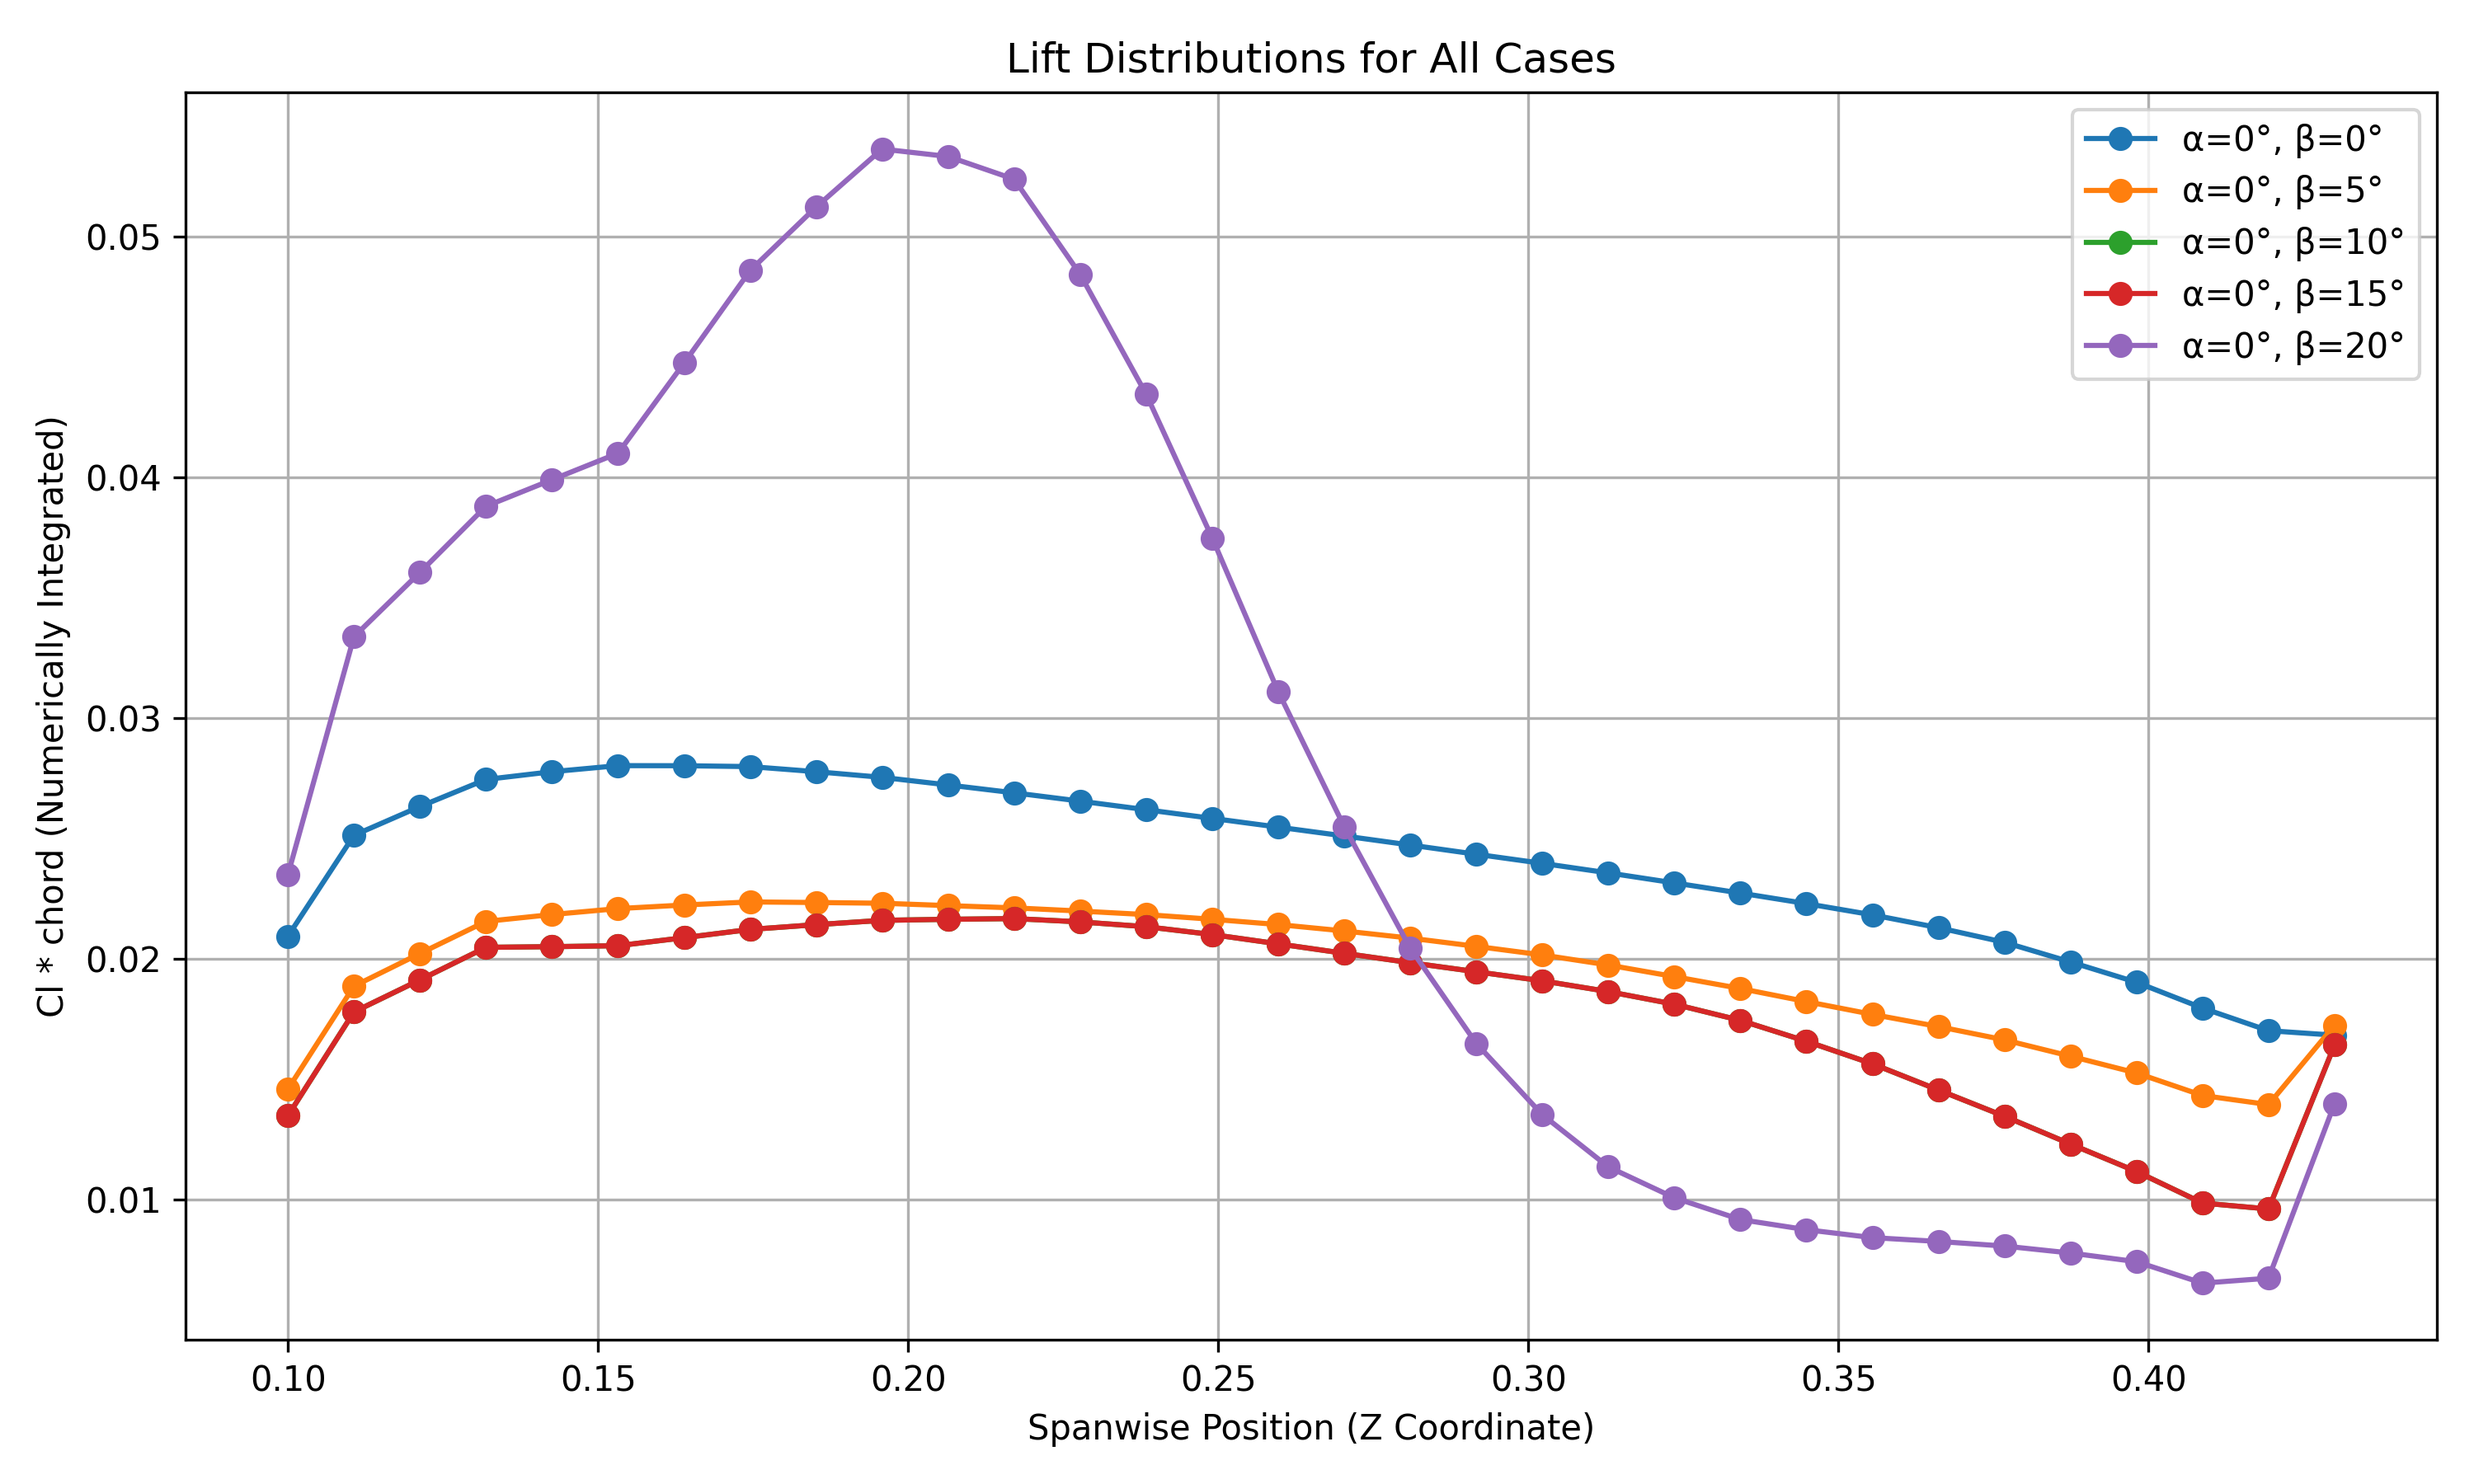
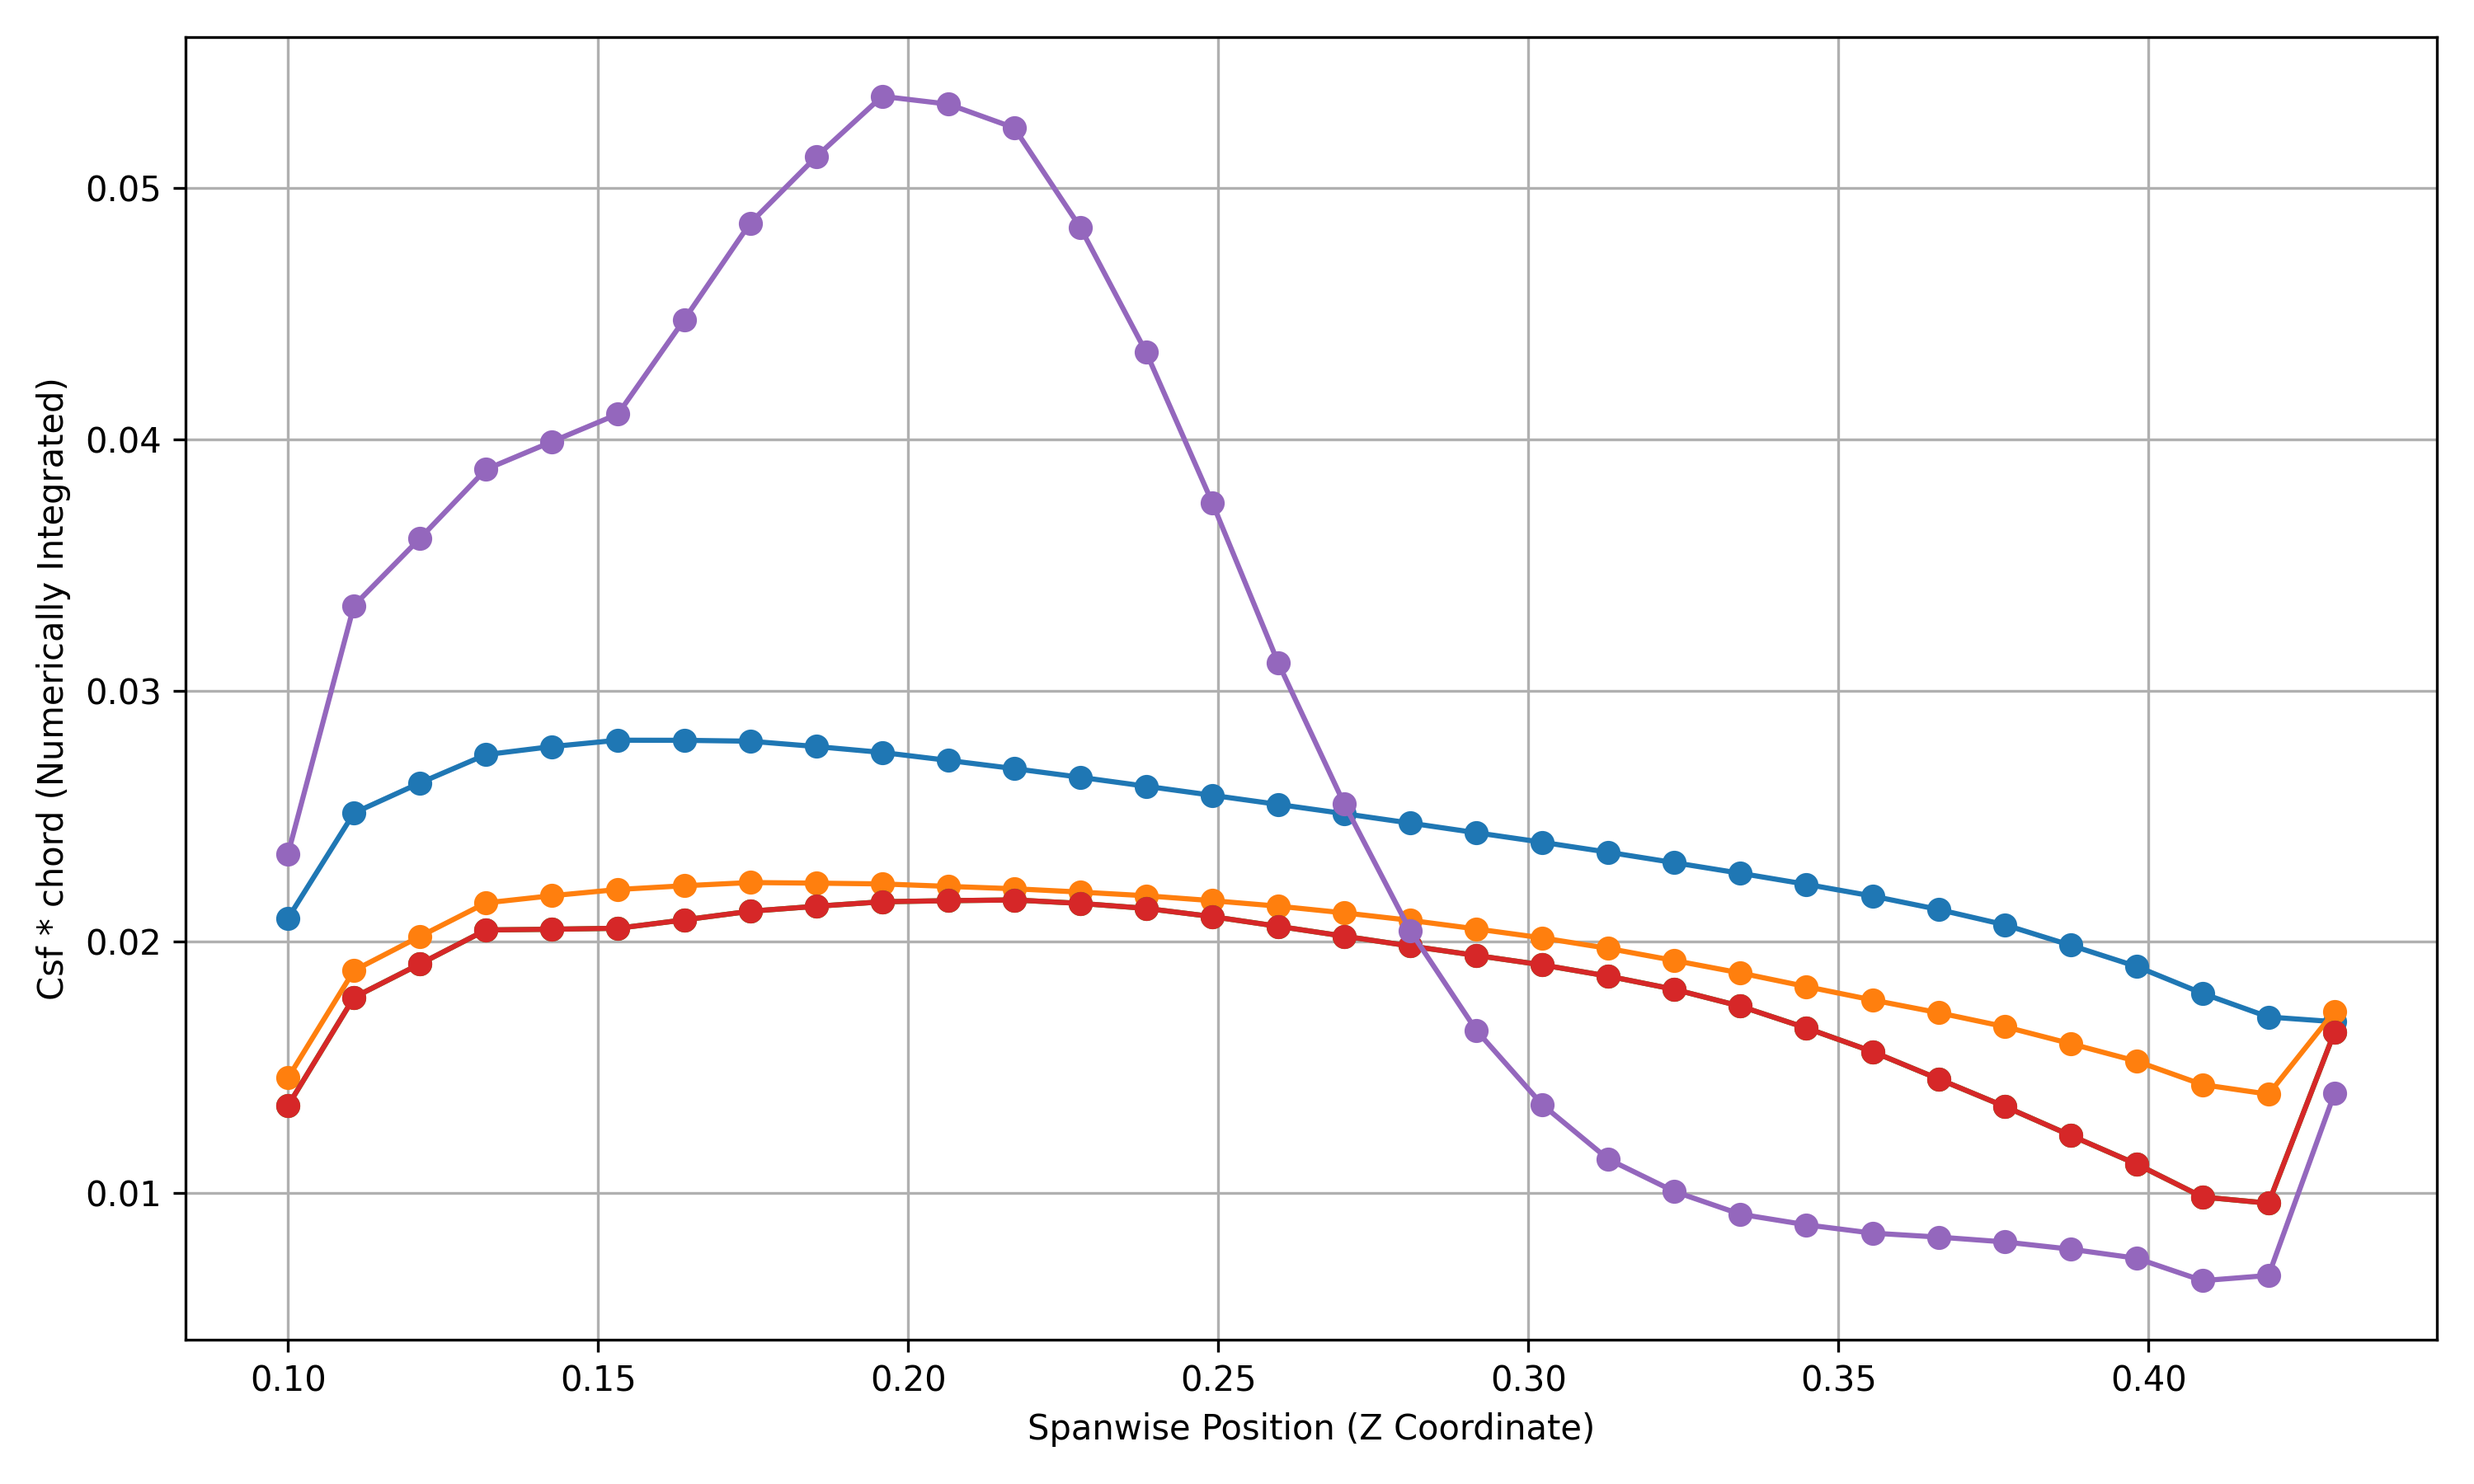
Updated figures

diff --git a/Left Winglets/scraper3.py b/Left Winglets/scraper3.py
@@ -301,7 +301,7 @@ def plot_lift_distribution(x, y, z, pressure, plot_surf=False, invertlift=False,
 
     plt.show()
 
-def plot_all_lift_distributions(datasets, titles, q=0.5 * 1.176655 * 34.70916 * 34.70916, S=1.841):
+def plot_all_lift_distributions(datasets, titles, q=0.5 * 1.176655 * 34.70916 * 34.70916, S=1.841, leyend = False):
     """
     Plot lift distributions for multiple datasets in a single figure.
     Each dataset is a tuple (x, y, z, pressure).
@@ -377,11 +377,12 @@ def plot_all_lift_distributions(datasets, titles, q=0.5 * 1.176655 * 34.70916 * 
         plt.plot(valid_z_values, lift_distribution, marker='o', label=label)
 
     # Add reference lines and formatting
-    plt.xlabel("Spanwise Position (Z Coordinate)")
-    plt.ylabel("Cl * chord (Numerically Integrated)")
-    plt.title("Lift Distributions for All Cases")
+    plt.xlabel("Spanwise Position (Z Coordinate in meters)")
+    plt.ylabel("Csf * chord (Numerically Integrated)")
+    # plt.title("Sideforce Distributions for All Cases")
     plt.grid(True)
-    plt.legend()
+    if leyend:
+        plt.legend(fontsize = 15)
     plt.tight_layout()
 
     filename_export = titles[0] + '_Lift_Distributions.png'
@@ -447,7 +448,7 @@ titles = []
 for i, filename in enumerate(files[5:] + ["10-20.dat"]):
     x, y, z, pressure = parse_file(filename, inverty=(filename == "10-20.dat"))
     datasets.append((x, y, z, pressure))
-    titles.append(f"α={alphas[i+5]}°, β={betas[i+5]}°")
+    titles.append(f"β={betas[i+5]}°")
 
 plot_all_lift_distributions(datasets, titles)
 
@@ -457,9 +458,9 @@ titles = []
 for i, filename in enumerate(files[:5]):
     x, y, z, pressure = parse_file(filename, inverty=(filename == "10-20.dat"))
     datasets.append((x, y, z, pressure))
-    titles.append(f"α={alphas[i]}°, β={betas[i]}°")
+    titles.append(f"β={betas[i]}°")
 
-plot_all_lift_distributions(datasets, titles)
+plot_all_lift_distributions(datasets, titles, leyend = True)
 
 # Separate cls
 total_cls_alpha_0 = cls[:5]
@@ -467,11 +468,11 @@ total_cls_alpha_10 = cls[5:]
 
 # Plot cl of both wings vs. sideslip angle for alpha = 0
 plt.figure(figsize=(8, 6))
-plt.plot(betas_alpha_0, total_cls_alpha_0, 'ro-', label="Alpha 0 Cl (\u03B1=0°)")
-plt.plot(betas_alpha_0, total_cls_alpha_10, 'bo-', label="Alpha 10 Cl (\u03B1=0°)")
+plt.plot(betas_alpha_0, total_cls_alpha_0, 'ro-', label="Alpha 0 Csf (\u03B1=0°)")
+plt.plot(betas_alpha_0, total_cls_alpha_10, 'bo-', label="Alpha 10 Csf (\u03B1=0°)")
 plt.xlabel("Sideslip Angle (β°)")
-plt.ylabel("Lift Coefficient")
-plt.title("Cl vs. Sideslip Angle")
+plt.ylabel("Side Force Coefficient")
+# plt.title(" vs. Sideslip Angle")
 plt.grid(True)
-plt.legend()
+plt.legend(fontsize = 15)
 plt.show()

diff --git a/Right Winglets/scraper3.py b/Right Winglets/scraper3.py
@@ -301,7 +301,7 @@ def plot_lift_distribution(x, y, z, pressure, plot_surf=False, invertlift=False,
 
     plt.show()
 
-def plot_all_lift_distributions(datasets, titles, q=0.5 * 1.176655 * 34.70916 * 34.70916, S=1.841):
+def plot_all_lift_distributions(datasets, titles, q=0.5 * 1.176655 * 34.70916 * 34.70916, S=1.841, leyend = False):
     """
     Plot lift distributions for multiple datasets in a single figure.
     Each dataset is a tuple (x, y, z, pressure).
@@ -377,11 +377,12 @@ def plot_all_lift_distributions(datasets, titles, q=0.5 * 1.176655 * 34.70916 * 
         plt.plot(valid_z_values, lift_distribution, marker='o', label=label)
 
     # Add reference lines and formatting
-    plt.xlabel("Spanwise Position (Z Coordinate)")
-    plt.ylabel("Cl * chord (Numerically Integrated)")
-    plt.title("Lift Distributions for All Cases")
+    plt.xlabel("Spanwise Position (Z Coordinate in meters)")
+    plt.ylabel("Csf * chord (Numerically Integrated)")
+    # plt.title("Sideforce Distributions for All Cases")
     plt.grid(True)
-    plt.legend()
+    if leyend:
+        plt.legend(fontsize = 15)
     plt.tight_layout()
 
     filename_export = titles[0] + '_Lift_Distributions.png'
@@ -447,7 +448,7 @@ titles = []
 for i, filename in enumerate(files[5:] + ["10-20.dat"]):
     x, y, z, pressure = parse_file(filename, inverty=(filename == "10-20.dat"))
     datasets.append((x, y, z, pressure))
-    titles.append(f"α={alphas[i+5]}°, β={betas[i+5]}°")
+    titles.append(f"β={betas[i+5]}°")
 
 plot_all_lift_distributions(datasets, titles)
 
@@ -457,9 +458,9 @@ titles = []
 for i, filename in enumerate(files[:5]):
     x, y, z, pressure = parse_file(filename, inverty=(filename == "10-20.dat"))
     datasets.append((x, y, z, pressure))
-    titles.append(f"α={alphas[i]}°, β={betas[i]}°")
+    titles.append(f"β={betas[i]}°")
 
-plot_all_lift_distributions(datasets, titles)
+plot_all_lift_distributions(datasets, titles, leyend = True)
 
 # Separate cls
 total_cls_alpha_0 = cls[:5]
@@ -470,8 +471,7 @@ plt.figure(figsize=(8, 6))
 plt.plot(betas_alpha_0, total_cls_alpha_0, 'ro-', label="Alpha 0 Cl (\u03B1=0°)")
 plt.plot(betas_alpha_0, total_cls_alpha_10, 'bo-', label="Alpha 10 Cl (\u03B1=0°)")
 plt.xlabel("Sideslip Angle (β°)")
-plt.ylabel("Lift Coefficient")
-plt.title("Cl vs. Sideslip Angle")
+plt.ylabel("Side Force Coefficient")
+# plt.title("Cl vs. Sideslip Angle")
 plt.grid(True)
-plt.legend()
 plt.show()

diff --git a/Wings/scraper2.py b/Wings/scraper2.py
@@ -313,7 +313,7 @@ def plot_lift_distribution(x, y, z, pressure, plot_surf=False, q=0.5 * 1.176655 
 
     plt.show()
 
-def plot_all_lift_distributions(datasets, titles, q=0.5 * 1.176655 * 34.70916 * 34.70916, S=1.841):
+def plot_all_lift_distributions(datasets, titles, q=0.5 * 1.176655 * 34.70916 * 34.70916, S=1.841, leyend=False):
     """
     Plot lift distributions for multiple datasets in a single figure.
     Each dataset is a tuple (x, y, z, pressure).
@@ -388,16 +388,18 @@ def plot_all_lift_distributions(datasets, titles, q=0.5 * 1.176655 * 34.70916 * 
         plt.plot(valid_y_values, lift_distribution, marker='o', label=label)
 
     # Add reference lines and formatting
+    plt.axhline(y=0, color='k')
     plt.axvline(x=0, color='r', linestyle='--', label="Centerline")
     plt.axvline(x=0.94, color='g', linestyle='--', label="Right kink")
     plt.axvline(x=-0.94, color='g', linestyle='--', label="Left kink")
     plt.axvline(x=0.579, color='b', linestyle='dotted', label="Right TE kink")
     plt.axvline(x=-0.579, color='b', linestyle='dotted', label="Left TE kink")
-    plt.xlabel("Spanwise Position (Y Coordinate)")
+    plt.xlabel("Spanwise Position (Y Coordinate in meters)")
     plt.ylabel("Cl * chord (Numerically Integrated)")
-    plt.title("Lift Distributions for All Cases")
+    # plt.title("Lift Distributions for All Cases")
     plt.grid(True)
-    plt.legend()
+    if leyend:
+        plt.legend(fontsize=15)
     plt.tight_layout()
 
     filename_export = titles[0] + '_Lift_Distributions.png'
@@ -505,7 +507,7 @@ titles = []
 for i, filename in enumerate(files[5:] + ["10-20.dat"]):
     x, y, z, pressure = parse_file(filename, inverty=(filename == "10-20.dat"))
     datasets.append((x, y, z, pressure))
-    titles.append(f"α={alphas[i+5]}°, β={betas[i+5]}°")
+    titles.append(f"β={betas[i+5]}°")
 
 plot_all_lift_distributions(datasets, titles)
 
@@ -515,9 +517,9 @@ titles = []
 for i, filename in enumerate(files[:5]):
     x, y, z, pressure = parse_file(filename, inverty=(filename == "10-20.dat"))
     datasets.append((x, y, z, pressure))
-    titles.append(f"α={alphas[i]}°, β={betas[i]}°")
+    titles.append(f"β={betas[i]}°")
 
-plot_all_lift_distributions(datasets, titles)
+plot_all_lift_distributions(datasets, titles, leyend=True)
 
 
 # Plot lift of both wings vs. sideslip angle for alpha = 0
